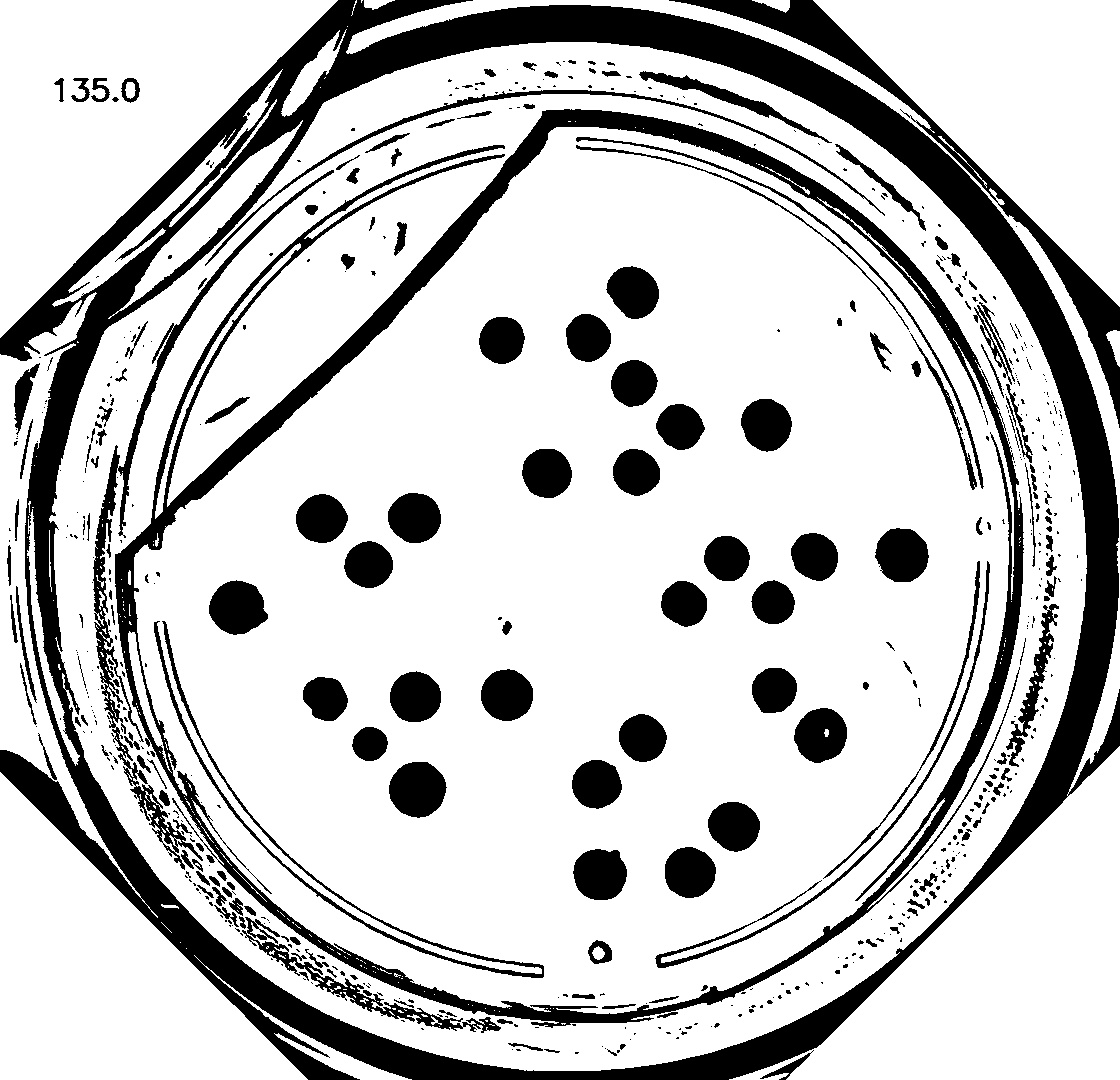
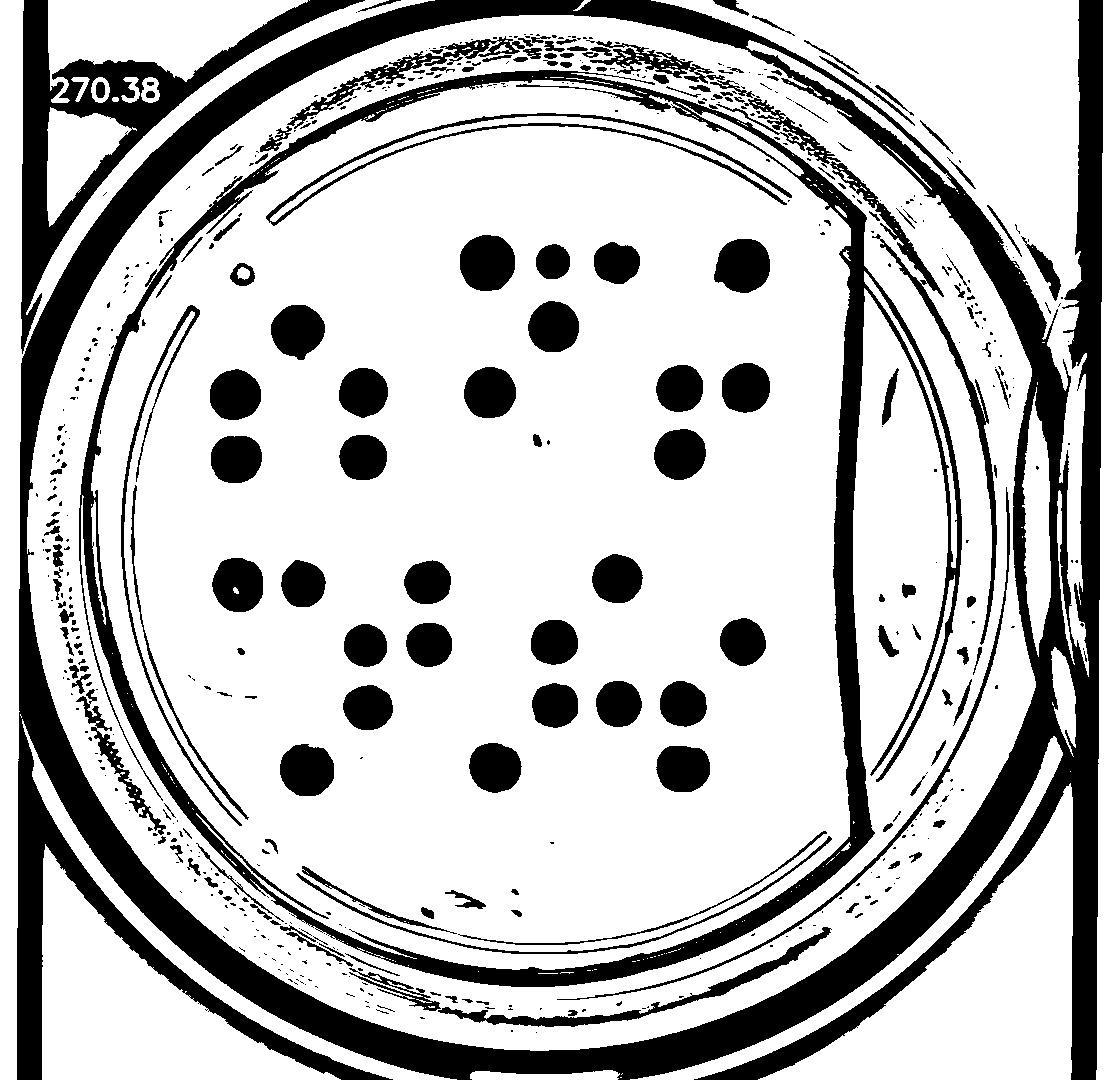
last picture for demo

diff --git a/robotinterface/job_library.py b/robotinterface/job_library.py
@@ -77,8 +77,12 @@ def analyse_each_image_separately(folder_name, auto_offset=False, auto_rotate=Fa
     if num_cols == 10:
         positions = [(240, 240), (880, 810)]
     elif num_cols == 9:
-        positions = [(200, 270), (780, 830)]
+        positions = [(200, 250), (780, 830)]
+
+    matrix_list = []
+    marker_names_list = []
     for image in images :
+        marker_names_list.append(image[-5])
         print(image)
         input_image = cv2.imread(image)
         tall = input_image.shape[0]
@@ -100,6 +104,8 @@ def analyse_each_image_separately(folder_name, auto_offset=False, auto_rotate=Fa
             angle = 0
 
         cv2.putText(rotated_image, str(round(angle, 2)), (50, 100), cv2.FONT_HERSHEY_SIMPLEX, 1, (0, 0, 255), 2, cv2.LINE_AA)
+        if image == images[0]:
+            background = rotated_image.copy()
 
         # Analyse the results
         matrix, matrix_of_keypoints, new_offset = analyse_matrix(rotated_image, positions, draw_blob=True, auto_offset=auto_offset,num_cols=num_cols)
@@ -134,16 +140,23 @@ def analyse_each_image_separately(folder_name, auto_offset=False, auto_rotate=Fa
 
             matrix, matrix_of_keypoints, new_offset = analyse_matrix(rotated_image, positions, draw_blob=True,
                                                                      auto_offset=auto_offset,num_cols=num_cols)
+        matrix_list.append(matrix)
 
         #new_offset = [0,0]
         new_positions = [(positions[0][0]+new_offset[0],positions[0][1]+new_offset[1]),
                          (positions[1][0]+new_offset[0],positions[1][1]+new_offset[1])]
-
+        if image == images[0]:
+            new_positions_0 = new_positions
         output = draw_resutls(rotated_image, new_positions, matrix,num_cols=num_cols)
 
         cv2.imshow('Input', cropped_input)
         cv2.imshow('Output', output)
         cv2.imwrite(image.replace('.jpg','')+"_out.jpeg",output)
+
+    aggregated_image = create_aggregated_matrix(matrix_list=matrix_list, marker_names_list=marker_names_list,
+                                                positions=new_positions_0, num_cols=num_cols,background=background,
+                                                experiment_name=folder_name.split("/")[-1])
+    cv2.imwrite(folder_name + "/aggregated_matrix.jpeg", aggregated_image)
 
 def summary_of_all_images(folder_name):
     input_images = sorted(glob.glob(folder_name + '/*.jpg'))
@@ -166,7 +179,46 @@ def summary_of_all_images(folder_name):
 
     cv2.imwrite( folder_name+"/image_summary.jpeg", image_summary)
 
+def create_aggregated_matrix(matrix_list,marker_names_list,positions,num_cols,background=0,experiment_name=""):
+    N = len(matrix_list)
+    if background.all == 0 :
+        image = np.zeros((1000,1000,3))
+        image = cv2.imread("/Users/Etienne/Documents/GitHub/robot-interface/images/20230817153856.jpg")[:,430:1430]
+    else:
+        #image = cv2.imread(background)[:,430:1430]
+        image = background
+    print('marker_names_list',marker_names_list)
 
+    if experiment_name != "":
+        cv2.putText(image, "Experiment: "+str(experiment_name), (320,220),
+                    cv2.FONT_HERSHEY_SIMPLEX, 1.7, (255, 255, 255), 2, cv2.LINE_AA)
+
+    if len(positions) >= 2:
+        num_cols: int = num_cols
+        num_rows: int = 9
+
+        pos0: tuple = positions[0]
+        pos1: tuple = positions[1]
+        offset: tuple = ((pos1[0] - pos0[0]) / num_cols, (pos1[1] - pos0[1]) / num_rows)
+
+        for i in range(num_cols):
+            for j in range(num_rows):
+                if j == 4:
+                    continue
+
+                pt1: tuple = int(pos0[0] + i * offset[0]), int(pos0[1] + j * offset[1])
+                pt2: tuple = int(pos0[0] + (i + 1) * offset[0]) - 1, int(pos0[1] + (j + 1) * offset[1]) - 1
+                #BGR
+                if matrix_list[0][i, j] == 1:
+                    cv2.rectangle(image, pt1, pt2, (0, 255, 0), 2)
+                else :
+                    cv2.rectangle(image, pt1, pt2, (0, 0, 255), 2)
+
+                for k in range(0,N):
+                    if matrix_list[k][i,j]:
+                        cv2.putText(image, str(marker_names_list[k]), (5+pt1[0]+30*(k%2),-40+pt2[1]+30*k//2 ),
+                                    cv2.FONT_HERSHEY_SIMPLEX, 1, (0,255,255), 2, cv2.LINE_AA)
+        return image
 
 if __name__ == "__main__":
     #/Users/Etienne/Documents/GitHub/robot-interface/images/test
